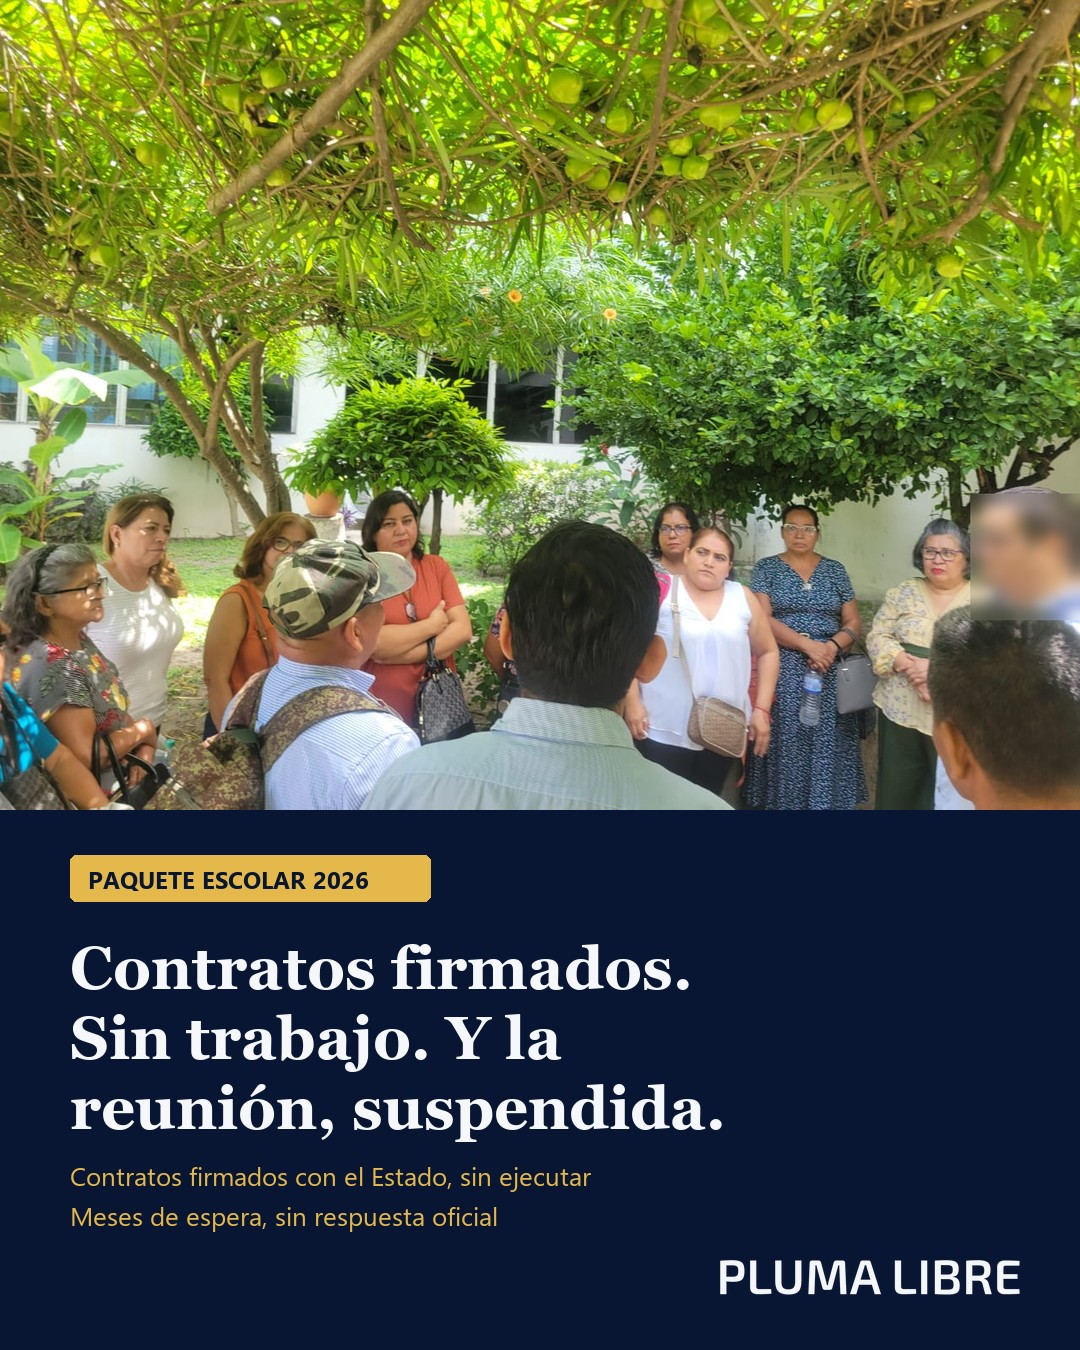
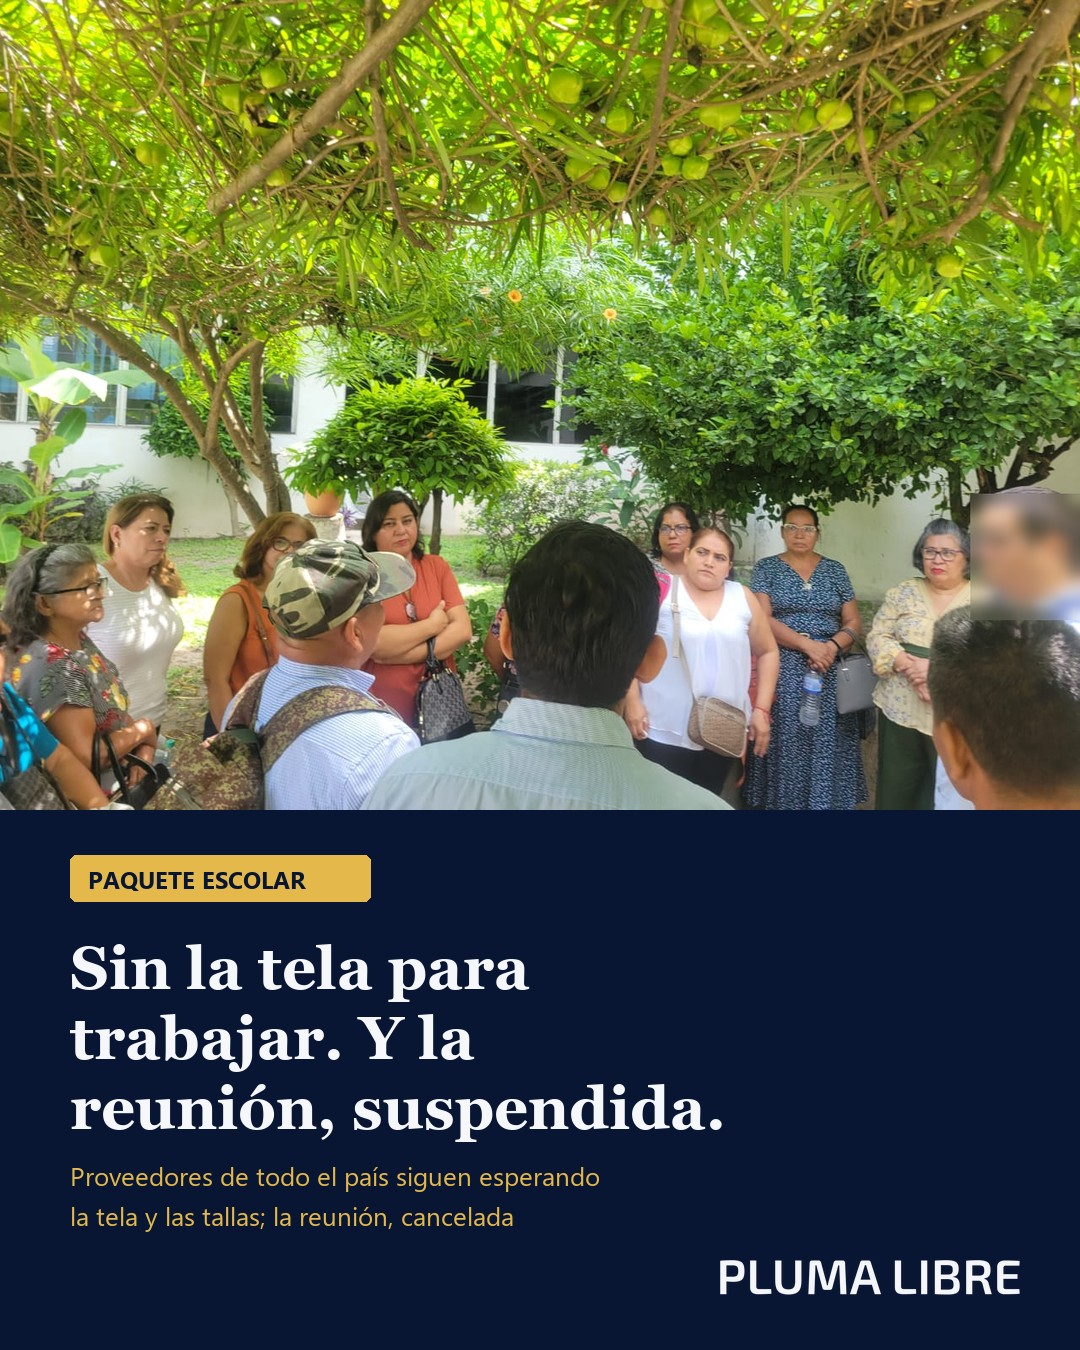
Nota proveedores: reordenar y resumir la cita de la proveedora + arte 4:5 alineado a la nota
Claude-Session: https://claude.ai/code/session_019BnRNXvM4hMaA9L6fzvqte

Changed region(s): [[0.0611, 0.6222, 0.6417, 0.8089], [0.0611, 0.84, 0.55, 0.9333]]

diff --git a/articulos/proveedores-uniformes-reunion-suspendida-sin-respuesta.html b/articulos/proveedores-uniformes-reunion-suspendida-sin-respuesta.html
@@ -34,9 +34,7 @@
 
 <h2>El reclamo de los proveedores</h2>
 
-<p>Una de las proveedoras, que pidió no ser identificada, describió así la situación: "Con nosotros trabajaban muchas personas que se han quedado sin trabajo. Hay compañeros que dependen únicamente de los uniformes."</p>
-
-<p>En el mismo sentido, agregó: "Por quince años se nos dio este trabajo y siempre lo cumplimos, con honradez y a tiempo. ¿Por qué ahora nos lo quitan? No estamos en contra de nadie. Por querer saber y preguntar no estamos haciendo nada malo. Solo queremos respuestas."</p>
+<p>Una de las proveedoras, que pidió no ser identificada, resumió el reclamo: "Por quince años se nos dio este trabajo y siempre lo cumplimos, con honradez y a tiempo. Con nosotros trabajaban muchas personas que se han quedado sin trabajo; hay compañeros que dependen únicamente de los uniformes. ¿Por qué ahora nos lo quitan? No estamos en contra de nadie. Solo queremos respuestas."</p>
 
 <h2>Sin respuesta oficial</h2>
 
